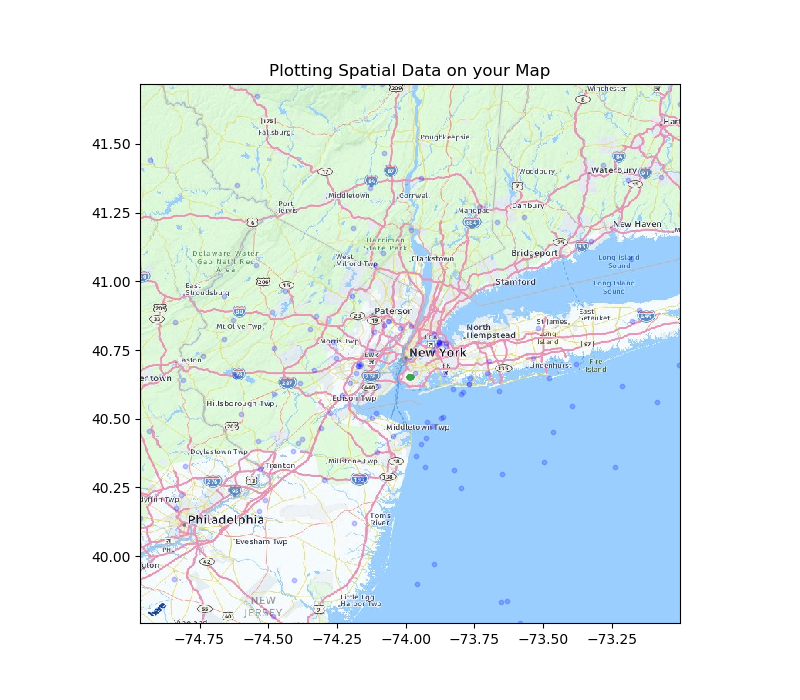
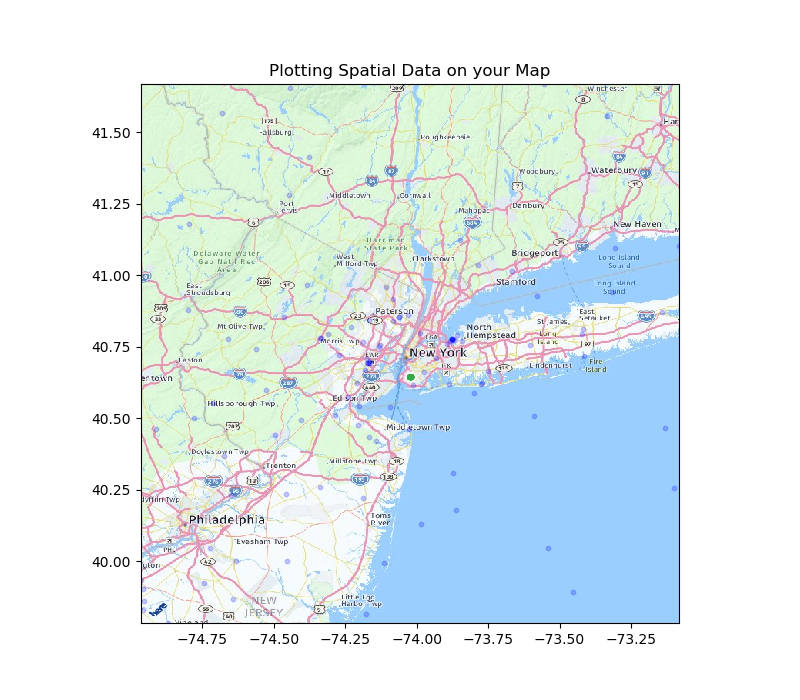
buggy custom location with index errors

diff --git a/templates/picker.html b/templates/picker.html
@@ -39,17 +39,17 @@ background-position-x: center;"
   <br />
   
 
-        <form action="/results" method="post" id="customlocform" class="range-field my-4 w-25" style="color: white;">
+        <form action="/pickerresults" method="post" id="customlocform" class="range-field my-4 w-25" style="color: white;">
           <center>
           <div id="customlocwrapper">
           <div id="customlatlngpicker">
             <div class="form-group">
               <label for="exampleFormControlInput1">Latitude</label>
-              <input name="customlatitude" type="number" class="form-control" id="latitudepicker" placeholder="0">
+              <input name="customlatitude" type="text" class="form-control" id="latitudepicker" placeholder="0">
             </div>
             <div class="form-group">
               <label for="exampleFormControlInput1">Longitude</label>
-              <input name="customlongitude" type="number" class="form-control" id="longitudepicker" placeholder="0">
+              <input name="customlongitude" type="text" class="form-control" id="longitudepicker" placeholder="0">
             </div>
           </div>
           <div id="customlatlngdeviance">
@@ -68,7 +68,7 @@ background-position-x: center;"
           <p style="display:inline; font-family: 'Lato', sans-serif;">Deviance from latitude: ± <p id="latitudeInput" style="display:inline;">0.6</p> degrees</p>
       
           <input
-            name="latitude"
+            name="latitudeDeviance"
             type="range"
             class="custom-range"
             id="customRange1"
@@ -79,7 +79,7 @@ background-position-x: center;"
           />
           <p style="display:inline; font-family: 'Lato', sans-serif;">Deviance from longitude: ± <p id="longitudeInput" style="display:inline;">0.6</p> degrees</p>
           <input
-            name="longitude"
+            name="longitudeDeviance"
             type="range"
             class="custom-range"
             id="customRange1"

diff --git a/templates/pickerresults.html b/templates/pickerresults.html
@@ -1,0 +1,24 @@
+{% extends "base.html" %} {% block body %}
+
+<body style="background: url(../static/black-skies.png);
+background-position: center;
+background-size: 100% 100%;
+background-repeat: no-repeat; margin-bottom: 100px; border-radius: 0px;
+background-position-x: center; padding-bottom: 5%;">
+  <br />
+  <br />
+  <br />
+  <br />
+  <br />
+  <br />
+  <br />
+  {% if map %}
+  <center>
+    <div id="map">
+      <!--<embed type="image/svg+xml" src= {{ map|safe }} /> -->
+      <img src="{{map}}" />
+    </div>
+  </center>
+  {% endif %}
+</body>
+{% endblock %}

diff --git a/routes.py b/routes.py
@@ -111,6 +111,22 @@ def picker():
     flash("You must log in first before you can access the radius form!")
     return redirect(url_for('home'))
 
+@app.route('/pickerresults', methods=['GET', 'POST'])
+def pickerResults():   
+
+    customlatitude = float(request.form.get("customlatitude").strip())
+    customlongitude = float(request.form.get("customlongitude").strip())
+    latitudeDeviance = float(request.form.get("latitudeDeviance").strip())
+    longitudeDeviance = float(request.form.get("longitudeDeviance").strip())
+    planes = planeswithin(customlatitude - latitudeDeviance, customlatitude + latitudeDeviance, customlongitude - longitudeDeviance, customlongitude + longitudeDeviance, False)
+    print(mylat - latitude, mylat + latitude, mylong - longitude, mylong + longitude)
+    return render_template('pickerresults.html',  map = getmap(customlatitude - latitudeDeviance, customlatitude + latitudeDeviance, customlongitude - longitudeDeviance, customlongitude + longitudeDeviance, customlatitude, customlongitude, planes))
+    print(customlatitude)
+    print(customlongitude)
+    # if(latitude > 1 or longitude > 1):
+    #     flash("Maximum value is 1 degree.")
+    # return render_template("pickerresults.html", customlat = customlatitude, customlong = customlongitude)
+
 if __name__  == "__main__":
         app.debug = True
         app.run()
